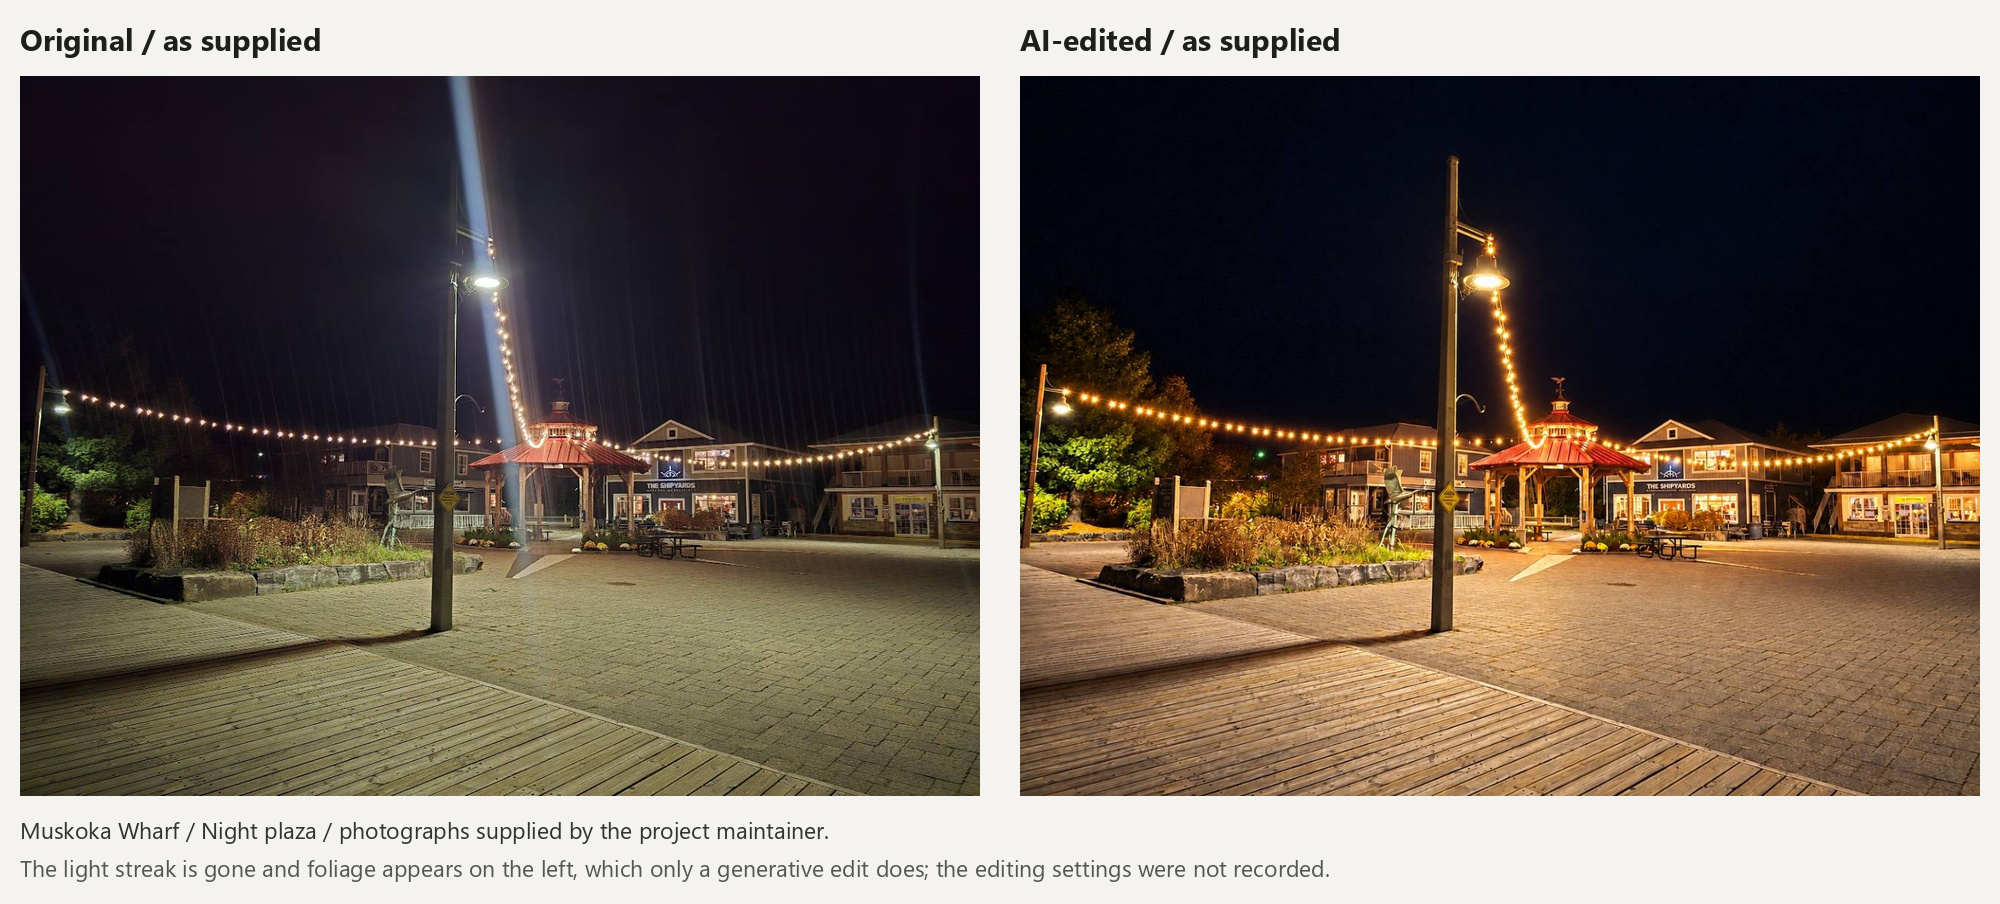
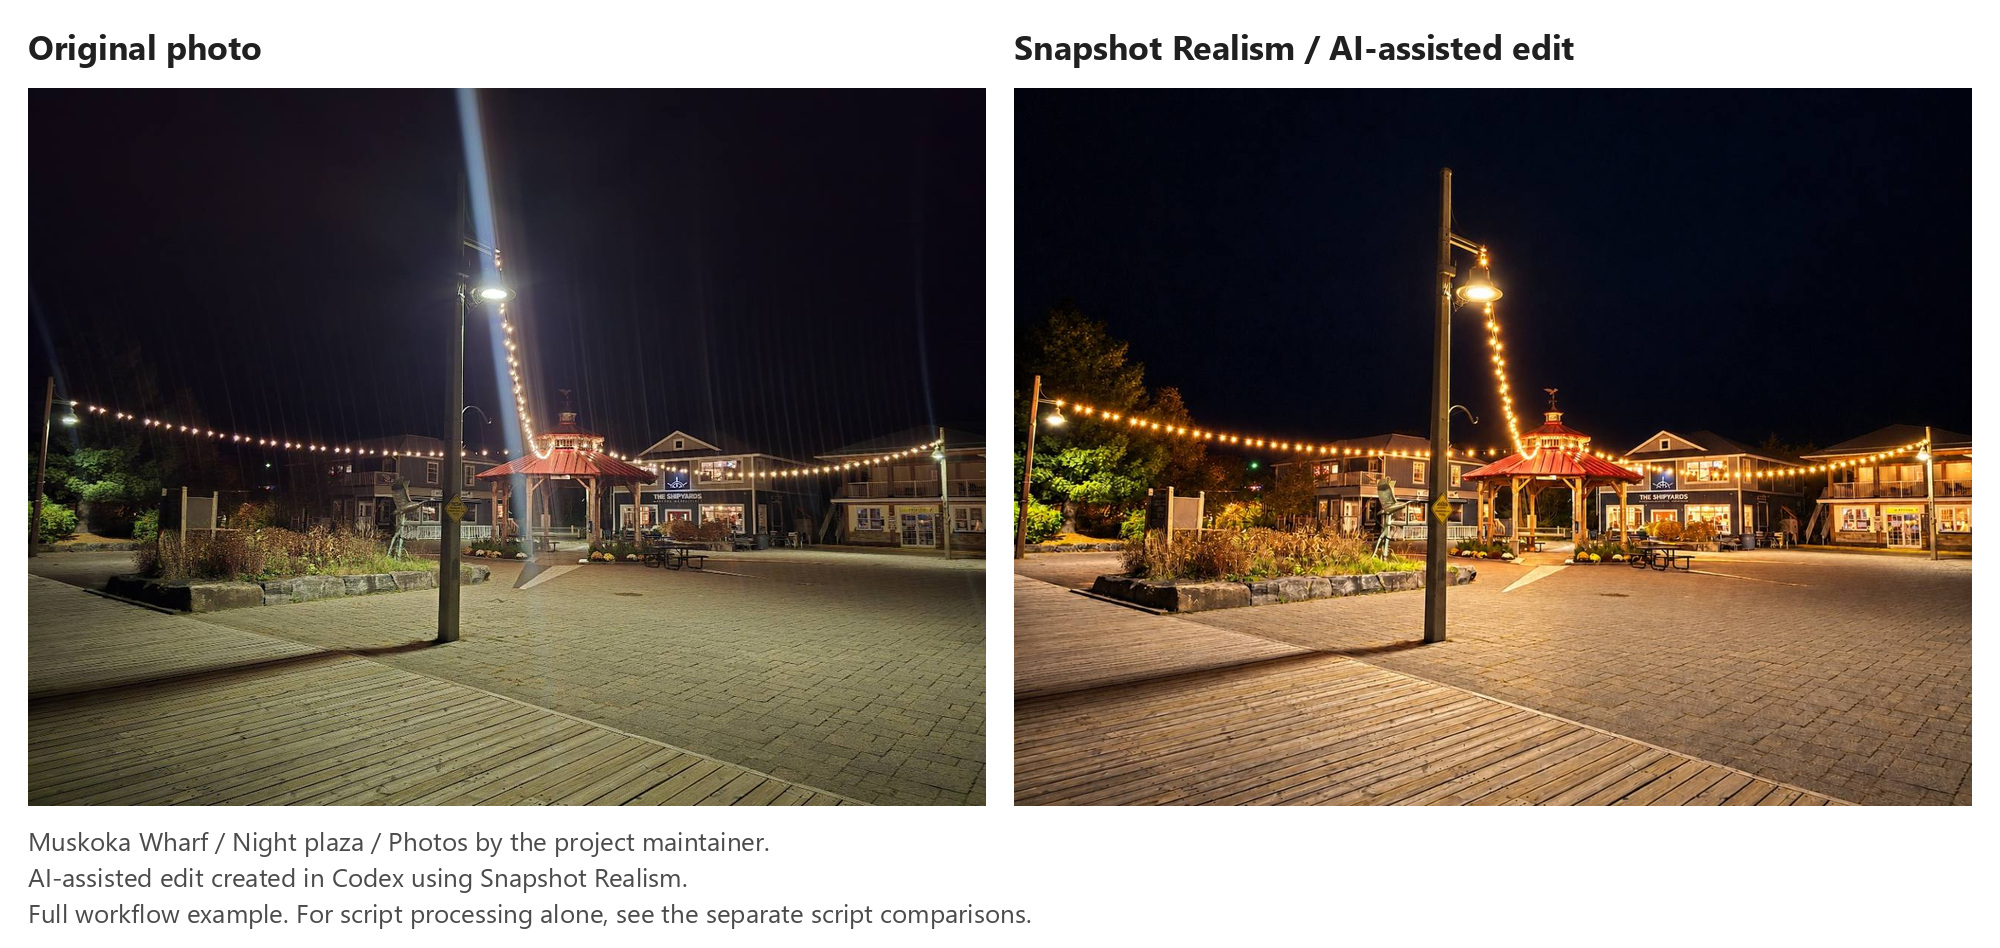
Clarify Muskoka Wharf attribution, workflow captions, and capability wording
Update Muskoka Wharf README, image credits, comparison sheet captions, main README capability/limits wording, and CHANGELOG to accurately describe the Codex Snapshot Realism photo edits alongside the separate realism.py script examples.

Changed region(s): [[0.0, 0.031, 0.992, 0.9912]]

diff --git a/assets/demo/muskoka-wharf/README.md b/assets/demo/muskoka-wharf/README.md
@@ -1,23 +1,23 @@
 # Muskoka Wharf photo examples
 
-Night photographs supplied by the project maintainer. Each scene has an original
-and a second, processed version that the maintainer also supplied. The original
-attachments are copied byte-for-byte; the comparison sheets only arrange them
-with captions for viewing.
+Night photographs taken by the project maintainer at Muskoka Wharf, with
+AI-assisted edits created in Codex using Snapshot Realism.
 
-The two kinds of file are different things and are labelled differently:
+This folder shows two parts of the workflow:
 
-- **Script output**: made by running `realism.py` on the original, declared as a
-  camera photo. This is the honest real-camera example.
-- **AI-edited (as supplied)**: the processed files the maintainer supplied. They
-  changed scene content, which only a generative edit does, and they carry no AI
-  label.
+- **Script output:** each original processed directly by `realism.py`. These
+  comparisons isolate the finishing script.
+- **Snapshot Realism / AI-assisted edit:** the photo edits made during the
+  project's demo work in Codex. These pairs show the skill's editing workflow.
+
+The original photos and completed edits are retained unchanged. Comparison
+sheets arrange each pair with labels and source credit.
 
 ## Script output on the originals
 
 The originals went through the script with `--origin camera --preset night
---seed 42`. The script cannot verify that a file came from a camera, so the output
-says "origin declared as camera, not verified". Run from the repository root:
+--seed 42`. Camera origin is declared by the user; the script does not verify it.
+Run from the repository root:
 
 ```bash
 python skill/snapshot-realism/scripts/realism.py assets/demo/muskoka-wharf/plaza-before.jpg --origin camera --preset night --seed 42 -o plaza-script.jpg
@@ -31,7 +31,7 @@ folder; the copies in this folder were made the same way. Script version: 0.5.0.
 
 [![100% crops of the original and the script output, night plaza](plaza-script-crops.jpg)](plaza-script-crops.jpg)
 
-- [Original as supplied](plaza-before.jpg): attachment `1-1000029642.jpg`.
+- [Original photo](plaza-before.jpg): attachment `1-1000029642.jpg`.
 - [Script output](plaza-script.jpg).
 - [Crop sheet](plaza-script-crops.jpg): 100% crops, original on the left and script output on the right.
 
@@ -39,43 +39,35 @@ folder; the copies in this folder were made the same way. Script version: 0.5.0.
 
 [![100% crops of the original and the script output, bird sculpture](sculpture-script-crops.jpg)](sculpture-script-crops.jpg)
 
-- [Original as supplied](sculpture-before.jpg): attachment `3-1000029643.jpg`.
+- [Original photo](sculpture-before.jpg): attachment `3-1000029643.jpg`.
 - [Script output](sculpture-script.jpg).
 - [Crop sheet](sculpture-script-crops.jpg): 100% crops, original on the left and script output on the right.
 
-## AI-edited versions (as supplied)
+## Snapshot Realism photo edits
 
-The maintainer identified files 2 and 4 as the processed versions. Compared with
-the originals, they changed scene content: on the plaza the light streak is gone
-and foliage appears on the left; on the sculpture the horizontal light streak is
-gone and detail in the dark trees changed. A script that only adds noise, white
-balance, fringing, noise reduction and sharpening cannot do any of that. They are therefore
-labelled **AI-edited (as supplied)** in the comparison sheets.
+These pairs show the original photographs alongside the AI-assisted edits made
+in Codex using Snapshot Realism. The edits remove intrusive light streaks and
+change some scene detail, including foliage. They illustrate the editing
+workflow; the script-only comparisons above show capture processing separately.
 
 ### Night plaza
 
-[![Original and AI-edited version, as supplied, night plaza](plaza-comparison.jpg)](plaza-comparison.jpg)
+[![Original photo and Snapshot Realism AI-assisted edit, night plaza](plaza-comparison.jpg)](plaza-comparison.jpg)
 
-- [Original as supplied](plaza-before.jpg): attachment `1-1000029642.jpg`.
-- [AI-edited, as supplied](plaza-after.jpg): attachment `2-1000029650.jpg`.
+- [Original photo](plaza-before.jpg): attachment `1-1000029642.jpg`.
+- [Snapshot Realism AI-assisted edit](plaza-after.jpg): attachment `2-1000029650.jpg`.
 
 ### Bird sculpture
 
-[![Original and AI-edited version, as supplied, bird sculpture](sculpture-comparison.jpg)](sculpture-comparison.jpg)
+[![Original photo and Snapshot Realism AI-assisted edit, bird sculpture](sculpture-comparison.jpg)](sculpture-comparison.jpg)
 
-- [Original as supplied](sculpture-before.jpg): attachment `3-1000029643.jpg`.
-- [AI-edited, as supplied](sculpture-after.jpg): attachment `4-1000029651.jpg`.
+- [Original photo](sculpture-before.jpg): attachment `3-1000029643.jpg`.
+- [Snapshot Realism AI-assisted edit](sculpture-after.jpg): attachment `4-1000029651.jpg`.
 
 ## How to read these examples
 
-The AI-edited pairs do not isolate the finishing script. Their original editing
-prompts, tools and settings were not recorded with the files, so do not attribute
-the removed light streak or the added foliage to noise, white balance, sharpening
-or JPEG compression.
-
-The supplied files do not contain a processing declaration. Missing AI metadata
-does not authenticate a camera photo, and that is also why the script accepts the
-originals in camera mode: it found no AI marker, which proves nothing about where
-they came from.
+The AI-assisted pairs show the completed edits. They do not isolate the finishing
+script, so scene changes should be attributed to the editing stage. The two
+script-only pairs provide the separate view of `realism.py`.
 
 See [image rights and credits](../IMAGE-LICENSES.md).

diff --git a/README.md b/README.md
@@ -70,7 +70,7 @@ Three origins, each declared by you:
 
 ### Muskoka Wharf: the script on a real camera photo
 
-Two night photographs supplied by the project maintainer as originals. The script cannot verify where a file came from, so the run declares `--origin camera` and the output says "origin declared as camera, not verified". Each original went through the same command:
+Two night photographs taken by the project maintainer at Muskoka Wharf. These pairs isolate the deterministic finishing script. Each original went through the same command:
 
 ```bash
 python skill/snapshot-realism/scripts/realism.py assets/demo/muskoka-wharf/plaza-before.jpg --origin camera --preset night --seed 42 -o plaza-script.jpg
@@ -86,13 +86,13 @@ The sheets below show a 100% crop of the original on the left and of the script 
 
 [![Muskoka Wharf bird sculpture: 100% crops of the original on the left and the script output on the right](assets/demo/muskoka-wharf/sculpture-script-crops.jpg)](assets/demo/muskoka-wharf/sculpture-script-crops.jpg)
 
-### Muskoka Wharf: AI-edited versions (as supplied)
+### Muskoka Wharf: Snapshot Realism photo edits
 
-The maintainer also supplied a second, processed version of each photo. Those files changed scene content (in both, the light streak is gone; on the plaza, foliage appears on the left), which only a generative edit does, and they carry no AI label. They are shown here as **AI-edited (as supplied)**. The original processing steps and settings were not recorded, so these pairs do not measure `realism.py`.
+These before-and-after pairs were created in Codex using Snapshot Realism. They show AI-assisted photo editing, including light-streak removal and changes to scene detail. The pairs illustrate the skill's editing workflow; the script-only comparisons above isolate `realism.py`.
 
-[![Muskoka Wharf night plaza: supplied original on the left and AI-edited version, as supplied, on the right](assets/demo/muskoka-wharf/plaza-comparison.jpg)](assets/demo/muskoka-wharf/plaza-comparison.jpg)
+[![Muskoka Wharf night plaza: original photo on the left and Snapshot Realism AI-assisted edit on the right](assets/demo/muskoka-wharf/plaza-comparison.jpg)](assets/demo/muskoka-wharf/plaza-comparison.jpg)
 
-[![Muskoka Wharf bird sculpture: supplied original on the left and AI-edited version, as supplied, on the right](assets/demo/muskoka-wharf/sculpture-comparison.jpg)](assets/demo/muskoka-wharf/sculpture-comparison.jpg)
+[![Muskoka Wharf bird sculpture: original photo on the left and Snapshot Realism AI-assisted edit on the right](assets/demo/muskoka-wharf/sculpture-comparison.jpg)](assets/demo/muskoka-wharf/sculpture-comparison.jpg)
 
 [Open all the Wharf files and provenance notes](assets/demo/muskoka-wharf/README.md).
 
@@ -318,7 +318,7 @@ Other projects attack the same "plastic" look from other directions. Grain, frin
 <a id="limits"></a>
 ## ⚠ Limits
 
-- It cannot repair face structure, hands, pose, lighting geometry, garbled text, or a background composed of too-perfect objects. The script does not fix structure; a new generated scene needs a better prompt, and a camera photo may need a different original shot.
+- The generation and editing stage can correct faces, hands, poses, lighting, text and background objects when requested. Results depend on the image model and need visual review. The finishing script handles capture processing; it does not reconstruct anatomy or scene geometry.
 - Higher capture strength adds capture artifacts. Changing airbrushed skin rendering or glossy hair structure requires a specific generation prompt or generative edit. When a generated reference should retain its identity or pose, permit the requested texture changes explicitly.
 - It does not authenticate images. It does not turn generated material into a camera photograph, and it must not be used to pass one off as one.
 - The origin label is easy to remove, signed or not (see the [threat model](#provenance)); it helps honest users and honest platforms, and nobody else. A `make_cert.py` signer is unknown to validators.

diff --git a/CHANGELOG.md b/CHANGELOG.md
@@ -95,7 +95,7 @@ A seven-agent review scored 0.4.0 at 6 out of 10: high craft in orientation, ICC
 - Night prompts no longer pair "iPhone" with "high ISO, grainy"; they describe what a phone night shot looks like. The artifacts slot asks for one or two imperfections, not a checklist, which becomes its own uniform tell.
 - README Provenance has a threat model. The label is an unsigned declaration in EXIF and XMP, a Pillow re-save at quality 80 removes it (after which camera mode accepts the file), the script replaces a signed C2PA credential with the unsigned label, and noise, resizing and JPEG re-encoding can weaken invisible watermarks such as SynthID. Camera-mode refusal prevents honest mistakes, not determined misuse.
 - README has a Related work table, installation steps for Claude.ai, Claude Code, Codex, Google Antigravity and ChatGPT Projects, a Quality gates section and a Reference section. SKILL.md has compatibility frontmatter and the Claude.ai upload workflow. The ChatGPT Project instructions are under 7,900 characters.
-- The legacy salon fixtures left the repository. The Muskoka Wharf "processed" files are labelled "AI-edited (as supplied)", because they changed scene content, which only a generative edit does; a real-camera script example (`--origin camera --preset night --seed 42`) sits beside them. The candid-male output, its before and after sheet and the workflow sheet were regenerated with 0.5.0 from the command in its README, and a test now runs that command and compares both files.
+- The legacy salon fixtures left the repository. The Muskoka Wharf AI-assisted photo edits sit beside a separate camera-photo script example (`--origin camera --preset night --seed 42`). The candid-male output, its before and after sheet and the workflow sheet were regenerated with 0.5.0 from the command in its README, and a test now runs that command and compares both files.
 
 ### Tests
 

diff --git a/assets/demo/IMAGE-LICENSES.md b/assets/demo/IMAGE-LICENSES.md
@@ -7,13 +7,13 @@ in these examples.
 
 ## Muskoka Wharf
 
-Photographs supplied by the project maintainer for these documentation examples.
+Photographs taken by the project maintainer at Muskoka Wharf.
 Copyright remains with the photographer. Inclusion here does not grant a separate
 photo reuse license. The files fall into three groups:
 
-- the originals, copied as supplied;
-- the processed versions the maintainer supplied, labelled "AI-edited (as supplied)"
-  because they changed scene content; their editing history is not recorded;
+- the original photographs;
+- the AI-assisted photo edits created in Codex using Snapshot Realism, labelled
+  "Snapshot Realism / AI-assisted edit" in the comparison sheets;
 - the script outputs and 100% crop sheets made by running `realism.py` on the
   originals with `--origin camera --preset night --seed 42`. They are derivatives
   of the originals and carry the same photo rights; only the code that made them
